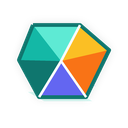
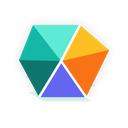
fix: 清理图标描边并精简文档
移除插件图标里残留的绿色外描边和绿色阴影，重新导出多尺寸透明 PNG 图标。

精简 README：顶部居中展示最高分辨率图标，删除图标预览表，功能区只保留功能范围说明，不再展开具体可识别技术清单。

本次更新图标资源和文档，同步将 manifest.json 版本号提升到 1.0.15。

Changed region(s): [[0.125, 0.1562, 0.875, 0.7812]]

diff --git a/README.md b/README.md
@@ -1,57 +1,35 @@
-# StackPrism 栈棱镜
+<p align="center">
+  <img src="icons/icon256.png" width="128" height="128" alt="StackPrism 栈棱镜图标">
+</p>
 
-StackPrism 栈棱镜是一个 Chrome / Edge Manifest V3 浏览器扩展，用于检测当前网页使用的技术线索，包括前端框架、前端库、UI / CSS 框架、构建工具、CDN / 托管、Web 服务器、后端框架、开发语言 / 运行时、网站程序、CMS 主题 / 模板、网站源码线索、探针 / 监控、RSS / 订阅、CMS / 电商平台、SaaS / 第三方服务、第三方登录 / OAuth、支付系统、广告 / 营销、统计 / 分析平台和标签脚本。
+<h1 align="center">StackPrism 栈棱镜</h1>
 
-名称中的 `Stack` 表达网页技术栈，`Prism / 栈棱镜` 表达把页面线索折射、拆解成可读技术清单。
+<p align="center">一个用于检测网页技术栈线索的 Chrome / Edge Manifest V3 浏览器扩展。</p>
 
-## 图标预览
-
-图标源文件在 `icons/icon.svg`，扩展使用的 PNG 图标放在 `icons/` 目录。
-
-| 16x16                                                                           | 32x32                                                                           | 48x48                                                                           | 128x128                                                                            | 256x256                                                                              |
-| ------------------------------------------------------------------------------- | ------------------------------------------------------------------------------- | ------------------------------------------------------------------------------- | ---------------------------------------------------------------------------------- | ------------------------------------------------------------------------------------ |
-| <img src="icons/icon16.png" width="16" height="16" alt="StackPrism 16x16 icon"> | <img src="icons/icon32.png" width="32" height="32" alt="StackPrism 32x32 icon"> | <img src="icons/icon48.png" width="48" height="48" alt="StackPrism 48x48 icon"> | <img src="icons/icon128.png" width="96" height="96" alt="StackPrism 128x128 icon"> | <img src="icons/icon256.png" width="128" height="128" alt="StackPrism 256x256 icon"> |
+StackPrism 栈棱镜会从页面运行时、DOM、资源 URL、响应头、动态加载资源和源码快照中收集线索，并按分类展示检测结果。
 
 ## 功能
 
-- 页面运行时检测：React、Vue、Angular、Next.js、Nuxt、Gatsby、Astro、jQuery、Alpine、Lit 等。
-- 页面运行时检测：React、Vue、Angular、Next.js、Nuxt、Gatsby、Astro、Svelte、Qwik、Marko、Stencil、Aurelia、Knockout、Dojo、Ext JS、htmx、Hotwire 等。
-- 前端库检测：Lodash、Axios、Moment、Day.js、RxJS、Redux、Apollo、D3、ECharts、Chart.js、Three.js、GSAP、Swiper、Video.js、Monaco、CodeMirror、Mermaid、Socket.IO 等；未命中内置规则时，会用 `.min.js` / `.umd.min.js` / `.bundle.min.js` 等脚本文件名做低置信度兜底识别，不绑定官网链接，并在证据中标明来源文件名。
-- UI 技术检测：Bootstrap、Tailwind CSS、Material UI、Ant Design、Element Plus、Vuetify、Chakra UI、Mantine、Radix UI、Headless UI、Fluent UI、Carbon、Kendo UI、DevExtreme、Vant、WeUI 等。
-- 资源与构建线索：Webpack、Vite、Parcel、RequireJS、SystemJS、PWA Manifest、Service Worker、CSS-in-JS、Workbox、Turbopack、Rspack、Rollup、esbuild、SWC。
-- CDN / 托管检测：Cloudflare、Akamai、CloudFront、Fastly、Azure、Google、jsDelivr、UNPKG、Bunny、KeyCDN、CDN77、Gcore、Edgio、StackPath、Imperva、Sucuri、Alibaba Cloud、Tencent Cloud、Baidu Cloud、Huawei Cloud、Qiniu、UpYun、ChinaCache、Wangsu/CDNetworks、BaishanCloud、Volcengine、Vercel、Netlify、Firebase、GitHub Pages、Cloudinary、Imgix 等，并包含私有 CDN 兜底识别。
-- 响应头检测：Server、X-Powered-By、X-Generator、Cloudflare/Vercel/Netlify/CloudFront/Fastly/Akamai/Azure/Google/国内云厂商等特征头。
-- 后端线索检测：Express、Koa、Fastify、NestJS、ASP.NET、Blazor、PHP、Laravel、Symfony、Django、Flask、FastAPI、Ruby on Rails、Spring、Java Servlet、Phoenix、Go、Rust Actix/Rocket/Axum、GraphQL、gRPC 等。
-- 开发语言 / 运行时检测：JavaScript、TypeScript、Node.js、PHP、JSP / JavaServer Pages、Java Servlet、Python、Ruby、Classic ASP、ASP.NET、ColdFusion / CFML、Perl / CGI、OpenResty / Lua、Go、Rust、Elixir 等。
-- 网站程序检测：WordPress、WooCommerce、Drupal、Joomla、Magento、Shopify、Discuz!、phpBB、XenForo、Discourse、MediaWiki、Moodle、Ghost、Typecho、DedeCMS、Hexo、Hugo、Jekyll、Docusaurus、VitePress、Docsify 等。
-- CMS 主题 / 模板 / 源码线索检测：可从目录识别 WordPress 主题名、WordPress 插件名、Typecho / Z-BlogPHP 主题与插件、DedeCMS 模板、Discuz! 模板、Drupal 主题与模块、Joomla 模板与组件、Magento / OpenCart / PrestaShop / ECShop / Shopware 主题资源，并补充识别 Elementor、Divi、Avada、Astra、GeneratePress、OceanWP、Flatsome、Woodmart、Kadence、Blocksy、Bricks、Beaver Builder、WPBakery 等常见主题和模板系统。
-- 电商系统检测：Shopify、WooCommerce、Magento、OpenCart、PrestaShop、Shopware、BigCommerce、Salesforce Commerce Cloud、ECShop、ShopXO、Niushop、有赞、微盟、微店等。
-- 探针 / 监控检测：雅黑 PHP 探针、X-Prober、ServerStatus、ServerStatus-Hotaru、哪吒监控、Uptime Kuma、Netdata、phpSysInfo、Glances、Cockpit、Webmin、宝塔/aaPanel、1Panel、CasaOS、Grafana、Prometheus、Zabbix、Nagios、Cacti、LibreNMS、Munin、Smokeping、Portainer 等。
-- RSS / 订阅检测：识别 `link rel="alternate"` 中的 RSS、Atom、JSON Feed，以及常见 feed URL 线索。
-- SaaS / 第三方服务检测：Stripe、PayPal、Auth0、Clerk、Firebase、Supabase、Intercom、Zendesk、HubSpot、Sentry、Datadog、Algolia、Cloudinary、Contentful、Google Maps、reCAPTCHA、Optimizely、Calendly 等。
-- 第三方登录 / OAuth 检测：QQ 登录、微信登录、微博登录、支付宝登录、钉钉、飞书、企业微信、华为、小米、百度、GitHub、Gitee、GitLab、Google、Apple、Microsoft、Facebook、Twitter/X、LinkedIn、Slack、Discord、Telegram、LINE、Kakao、Naver、Auth0、Okta、Keycloak、CAS、SAML、OpenID Connect/OAuth2 等。
-- 支付系统检测：支付宝支付、微信支付、QQ 钱包、财付通、银联在线、京东支付、百度收银台、百度钱包、翼支付、云闪付、易付宝、拉卡拉、通联、富友、宝付、银盛、合利宝、银联商务、收钱吧、Ping++、码支付、易支付、PAYJS、虎皮椒、V免签、连连支付、易宝支付、汇付天下、快钱、PayPal、Stripe、Adyen、Braintree、Paddle、Razorpay、Square、Worldpay、Checkout.com、Klarna、Afterpay/Clearpay 等。
-- 广告 / 营销检测：Google Ads、AdSense、Google Ad Manager / DoubleClick、Floodlight、Amazon Ads、Prebid.js、OpenX、PubMatic、Magnite、Index Exchange、Xandr、Criteo、Taboola、Outbrain、Media.net、AdRoll、The Trade Desk、CJ、Awin、Impact、Baidu Union、广点通、阿里妈妈 / TANX、巨量引擎、360广告联盟、MediaV、搜狗联盟等。
-- 流量跟踪 / 归因检测：UTM 参数、gclid / gbraid / wbraid / dclid、fbclid、msclkid、ttclid、li_fat_id、yclid，以及 Voluum、RedTrack、Binom、BeMob、AdsBridge、Keitaro、CPV Lab 等流量跟踪平台。
-- 统计 / 分析检测：Google Analytics、百度统计、CNZZ/友盟、51.LA、腾讯 MTA、神策、GrowingIO、Yandex Metrica、Adobe Analytics、Matomo/Piwik、Plausible、Umami、GoatCounter、PostHog、Fathom、Clicky、Statcounter、Mixpanel、Amplitude、Hotjar、Clarity、Meta Pixel 等，并在证据里标注“开源 / 可自托管”“商用 / 知名统计”“广告转化统计”等类型。
-- 动态页面监控：内容脚本会持续监听页面交互后新增的脚本、样式、iframe、资源加载、feed 链接和关键 DOM 标记，下次打开插件或刷新检测时会合并这些动态结果。
-- 主动后台识别：页面加载和动态资源变化时会在后台更新识别结果，并在扩展图标上显示已识别技术数量。
-- 分类 Tab 过滤：按前端框架、前端库、UI / CSS 框架、CDN / 托管、Web 服务器、开发语言 / 运行时、网站程序、主题 / 模板、网站源码线索、探针 / 监控、RSS / 订阅、第三方登录 / OAuth、支付系统、广告 / 营销、统计 / 分析等分类查看结果。
-- 技术链接：检测结果里的技术名称会尽量链接到官网或官方仓库，点击后在新标签页打开。
-- 设置页：支持按分类开启 / 关闭识别结果，按技术名称隐藏指定结果，添加自定义规则 / 自定义匹配范围 / 自定义技术链接，并支持自定义 CSS 覆盖弹窗和设置页样式。
-- 使用说明页：从弹窗或设置页打开，包含面向新手的自定义规则填写教程和可照抄示例。
-- 网页源代码搜索：在当前页面 DOM 源码快照中搜索，支持区分大小写、全字匹配和正则表达式。
-- 支持复制完整 JSON 检测结果。
+- 主动后台识别：页面加载和动态资源变化时自动检测，并在扩展图标上显示识别数量。
+- 分类结果展示：按前端框架、前端库、UI / CSS 框架、构建与运行时、CDN / 托管、Web 服务器、后端 / 服务器框架、开发语言 / 运行时、网站程序、主题 / 模板、网站源码线索、探针 / 监控、RSS / 订阅、CMS / 电商平台、SaaS / 第三方服务、第三方登录 / OAuth、支付系统、广告 / 营销、统计 / 分析、安全与协议等类别过滤结果。
+- 动态页面监控：页面交互后新增的脚本、样式、iframe、资源和关键 DOM 标记会被持续记录并合并到检测结果。
+- 技术名称跳转：检测结果里的技术名称可点击，优先跳转到官网或官方仓库。
+- 网页源代码搜索：支持在当前页面 DOM 源码快照中搜索，包含区分大小写、全字匹配和正则表达式选项。
+- 设置页：支持开启 / 关闭指定识别类别、隐藏指定技术、自定义规则、自定义匹配范围、自定义技术链接和自定义 CSS。
+- 自定义规则校验：保存前会检查规则 JSON、正则表达式、CSS 选择器、字段格式和数量限制，并给出错误提示。
+- 规则贡献入口：设置页可直接打开规则贡献议题模板，方便补充新的检测规则。
+- 使用说明页：提供面向新手的规则填写教程和示例。
+- 结果复制：支持复制完整 JSON 检测结果。
 
 ## 规则维护
 
 - 可枚举规则集中放在 `rules/` 目录，`rules/index.json` 是加载清单，`rules/page/*.json` 负责页面源码、DOM、资源和动态变化线索，`rules/headers/*.json` 负责响应头线索。
 - 技术名称到官网 / 仓库的链接集中放在 `tech-links.json`；如果新增规则后希望技术名可点击，也在这里补同名链接。
-- 需要执行浏览器 API 或 DOM 深度判断的检测仍保留在 `page-detector.js` / `background.js`，例如 React Fiber、Tailwind 类名计分、Service Worker、响应头脱敏和私有 CDN 启发式判断；可枚举规则优先放到 `rules/` 对应分类文件。
+- 需要执行浏览器 API 或 DOM 深度判断的检测仍保留在 `page-detector.js` / `background.js`；可枚举规则优先放到 `rules/` 对应分类文件。
 - 动态资源监听逻辑放在 `content-observer.js`，它只记录 URL、feed 链接和有限 DOM 标记，后台再用 `rules/` 里的规则做动态识别。
 - 新增规则时优先改 `rules/` 下对应分类 JSON：添加 `name`、`patterns`，需要时补 `kind`、`confidence`、`globals`、`selectors`、`classPrefixes`；如果新增了文件，要把路径加入 `rules/index.json`。
 - 不想改内置规则时，可以在扩展设置页添加自定义规则；每条规则支持 `patterns`、`selectors`、`globals`、`matchIn`、`matchType`、`category`、`confidence` 和技术链接。
-- 修改扩展运行文件时同步提升 `manifest.json` 里的 `version`；规则、弹窗、设置页、后台脚本和内容脚本更新都按插件版本更新处理。
+- 修改扩展运行文件时同步提升 `manifest.json` 里的 `version`；规则、弹窗、设置页、后台脚本、内容脚本和图标资源更新都按插件版本更新处理。
 
 ## 安装
 
